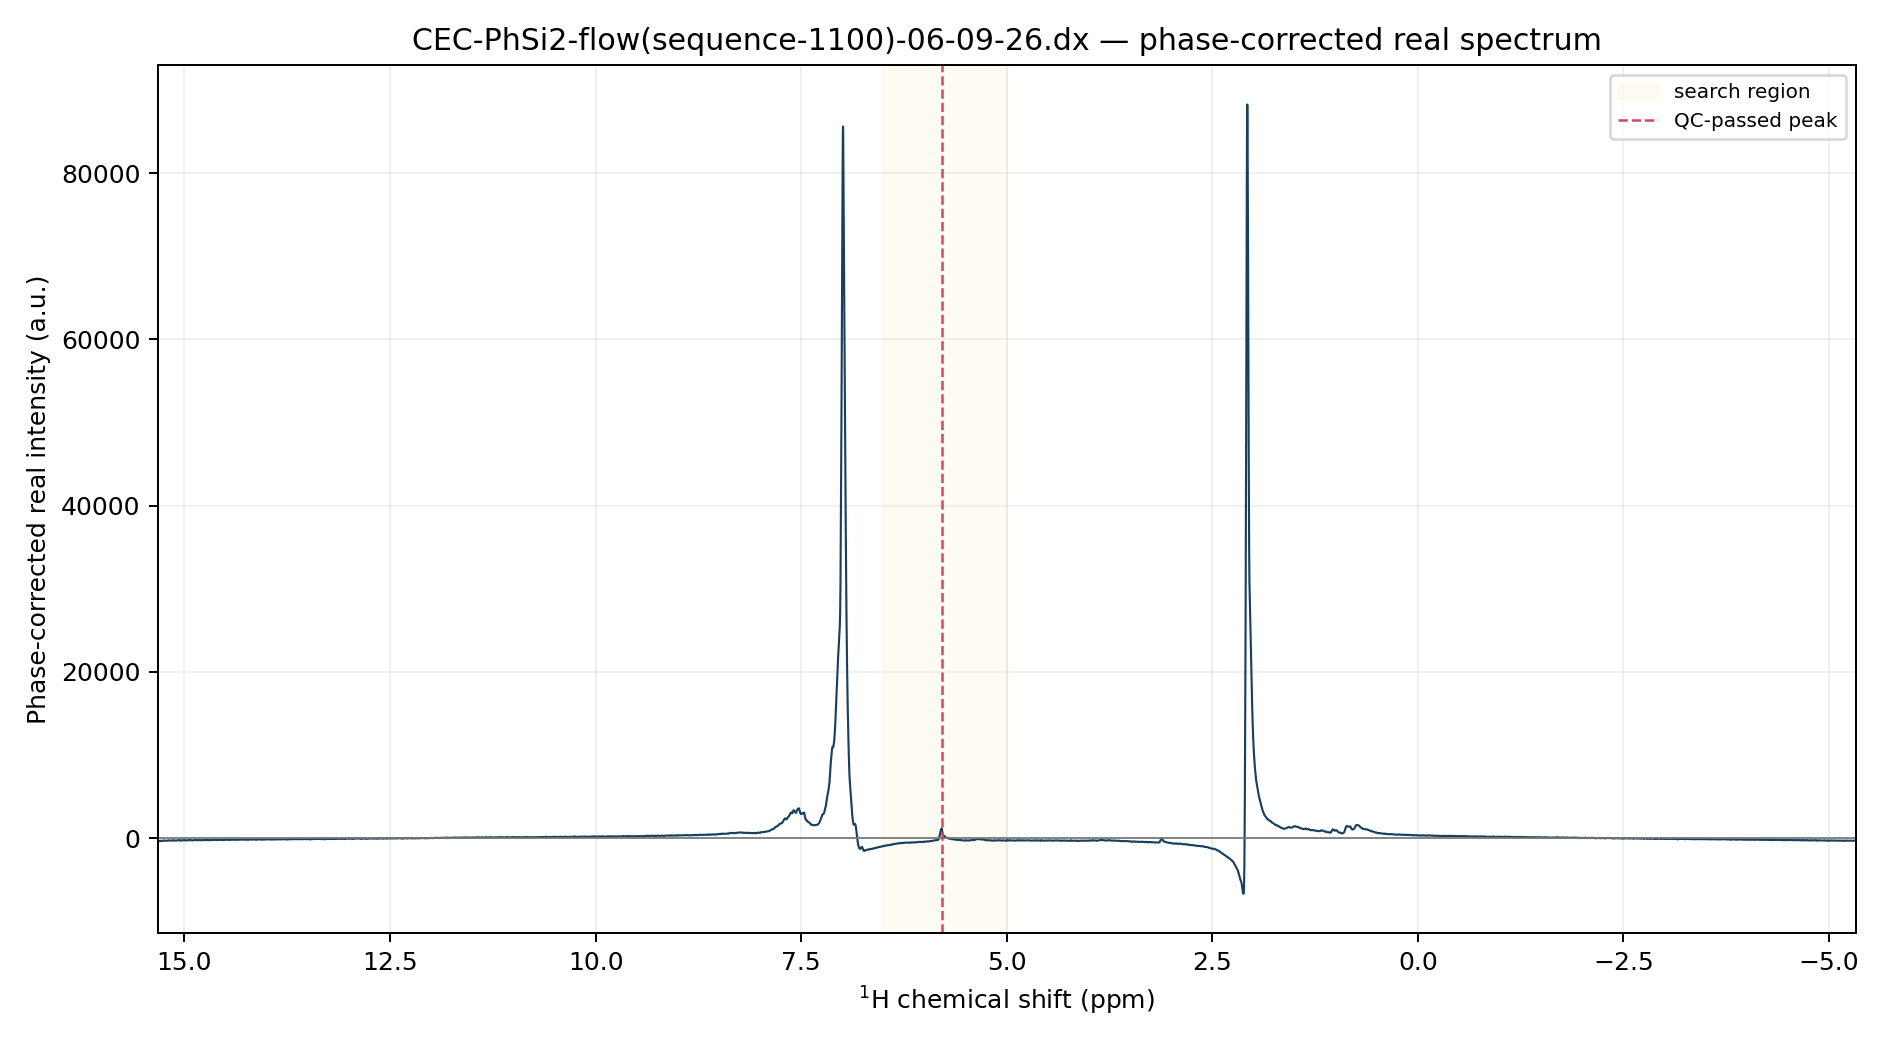
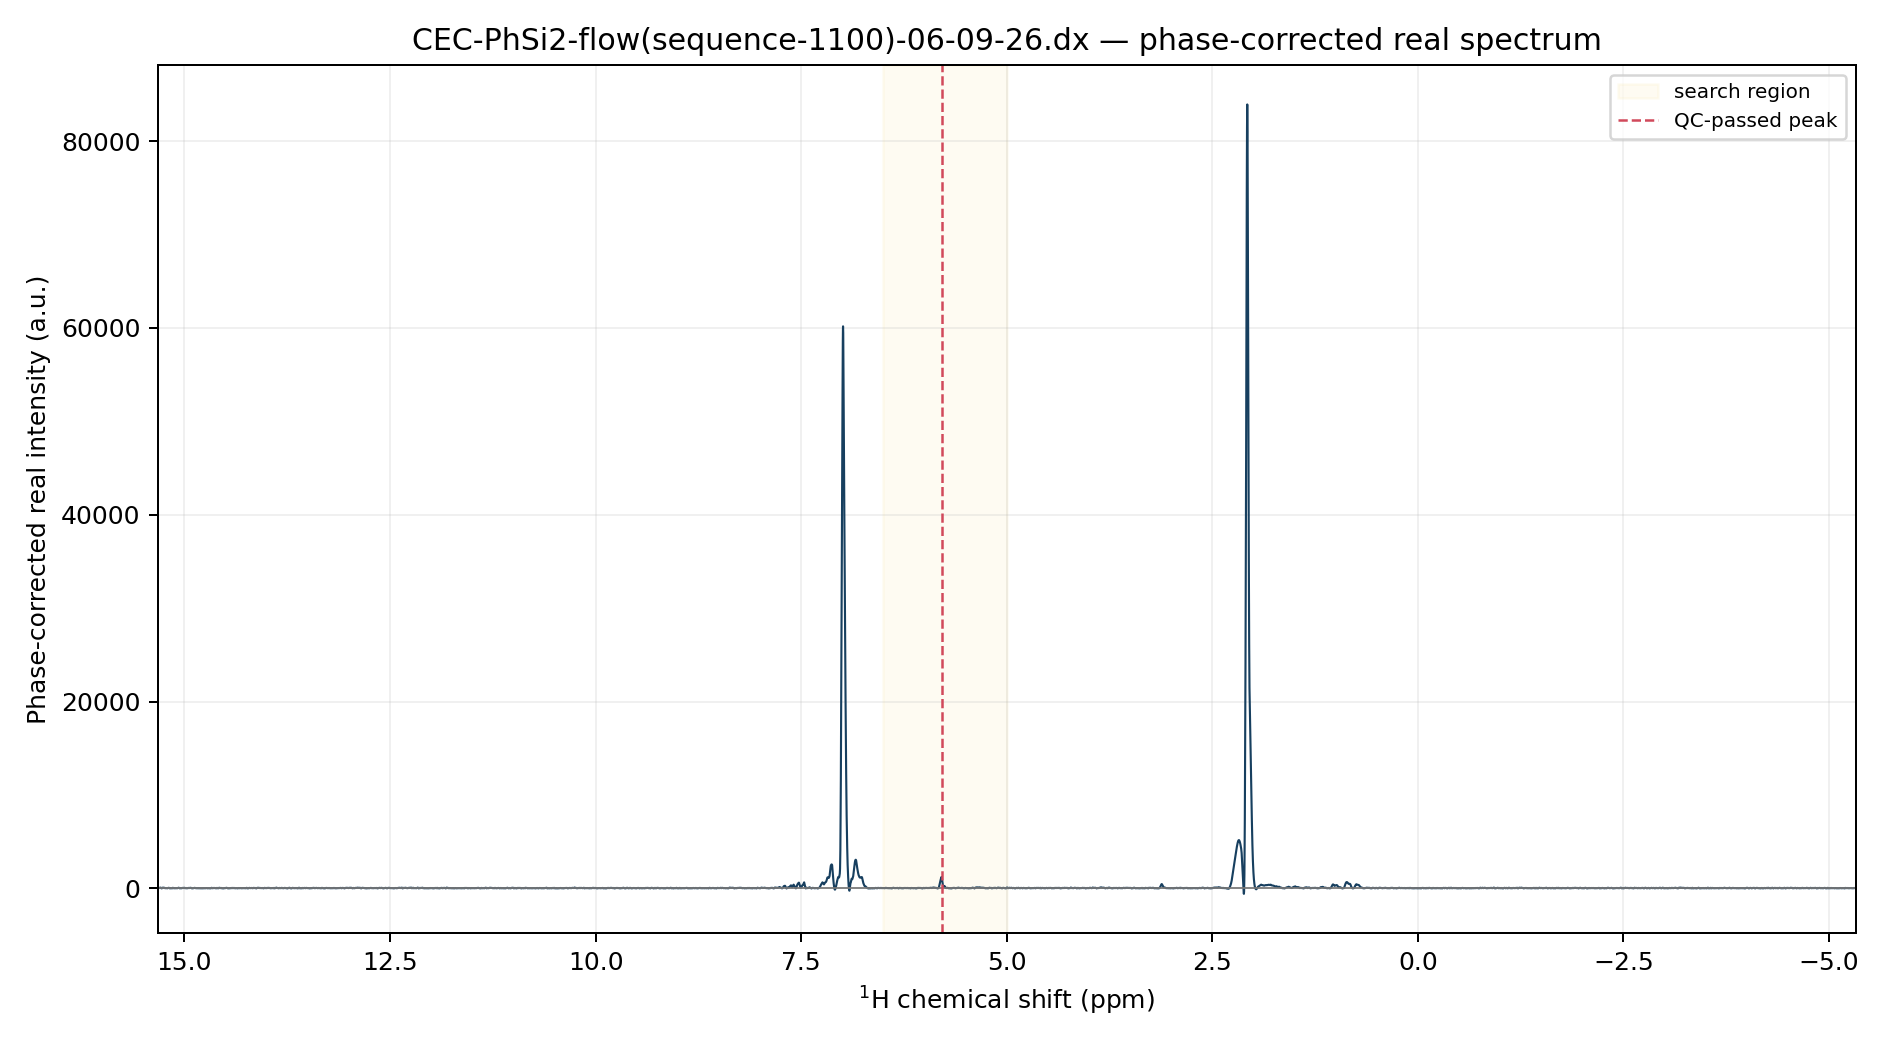
process_fid: default to ALS baseline so plots match the legacy/vendor look
The ~5.8 peak rides on the toluene aromatic tail (~7 ppm). The polynomial/ABD
baseline could not follow that rolling background, leaving a negative bowl and
DC offset. Switch the default baseline to asymmetric least squares (config +
code default), which tracks and removes the solvent tail -> flat baseline near
zero with positive peaks, matching nmr_template's output and the reference PDF.
Peak family unchanged (5.785 ppm, 7/7); SNR improves (~25-42 vs ~11-28).

Also: region plot widened to a 4-7 ppm display window with the y-axis scaled
to the detected peak (taller neighbours like toluene clip instead of flattening
the target peak).

diff --git a/scripts/nmr/process_fid.py b/scripts/nmr/process_fid.py
@@ -110,7 +110,11 @@ def _parser(config_defaults=None) -> argparse.ArgumentParser:
             "regional-polynomial",
             "abd-linear",
         ),
-        default="polynomial",
+        # ALS follows a rolling solvent background (e.g. the toluene tail the
+        # ~5.8 peak sits on) and removes it, giving a flat baseline like the
+        # legacy/vendor plots. The polynomial/abd methods leave that tail as a
+        # negative bowl. See the legacy nmr_template baseline handling.
+        default="asymmetric_least_squares",
     )
     parser.add_argument("--abd-sections", type=int, default=128)
     parser.add_argument("--abd-noise-factor", type=float, default=3.0)
@@ -637,12 +641,17 @@ def main(argv: list[str] | None = None) -> int:
                 )
             quantitative_real = spectrum.real
             if args.baseline_method in {"abd-linear", "polynomial"}:
+                # "abd-linear" keeps the conservative straight-line baseline;
+                # "polynomial" follows the curved solvent tail (e.g. toluene's
+                # wing under the ~5.8 peak) with the configured order so the
+                # displayed baseline sits near zero instead of bowing negative.
+                display_order = 1 if args.baseline_method == "abd-linear" else args.baseline_order
                 quantitative_real, _, _, _ = subtract_abd_polynomial_baseline(
                     spectrum.real,
                     sections=args.abd_sections,
                     noise_factor=args.abd_noise_factor,
                     window_points=args.abd_window_points,
-                    polynomial_order=1,
+                    polynomial_order=display_order,
                 )
             elif args.baseline_method == "asymmetric_least_squares":
                 quantitative_real = (
